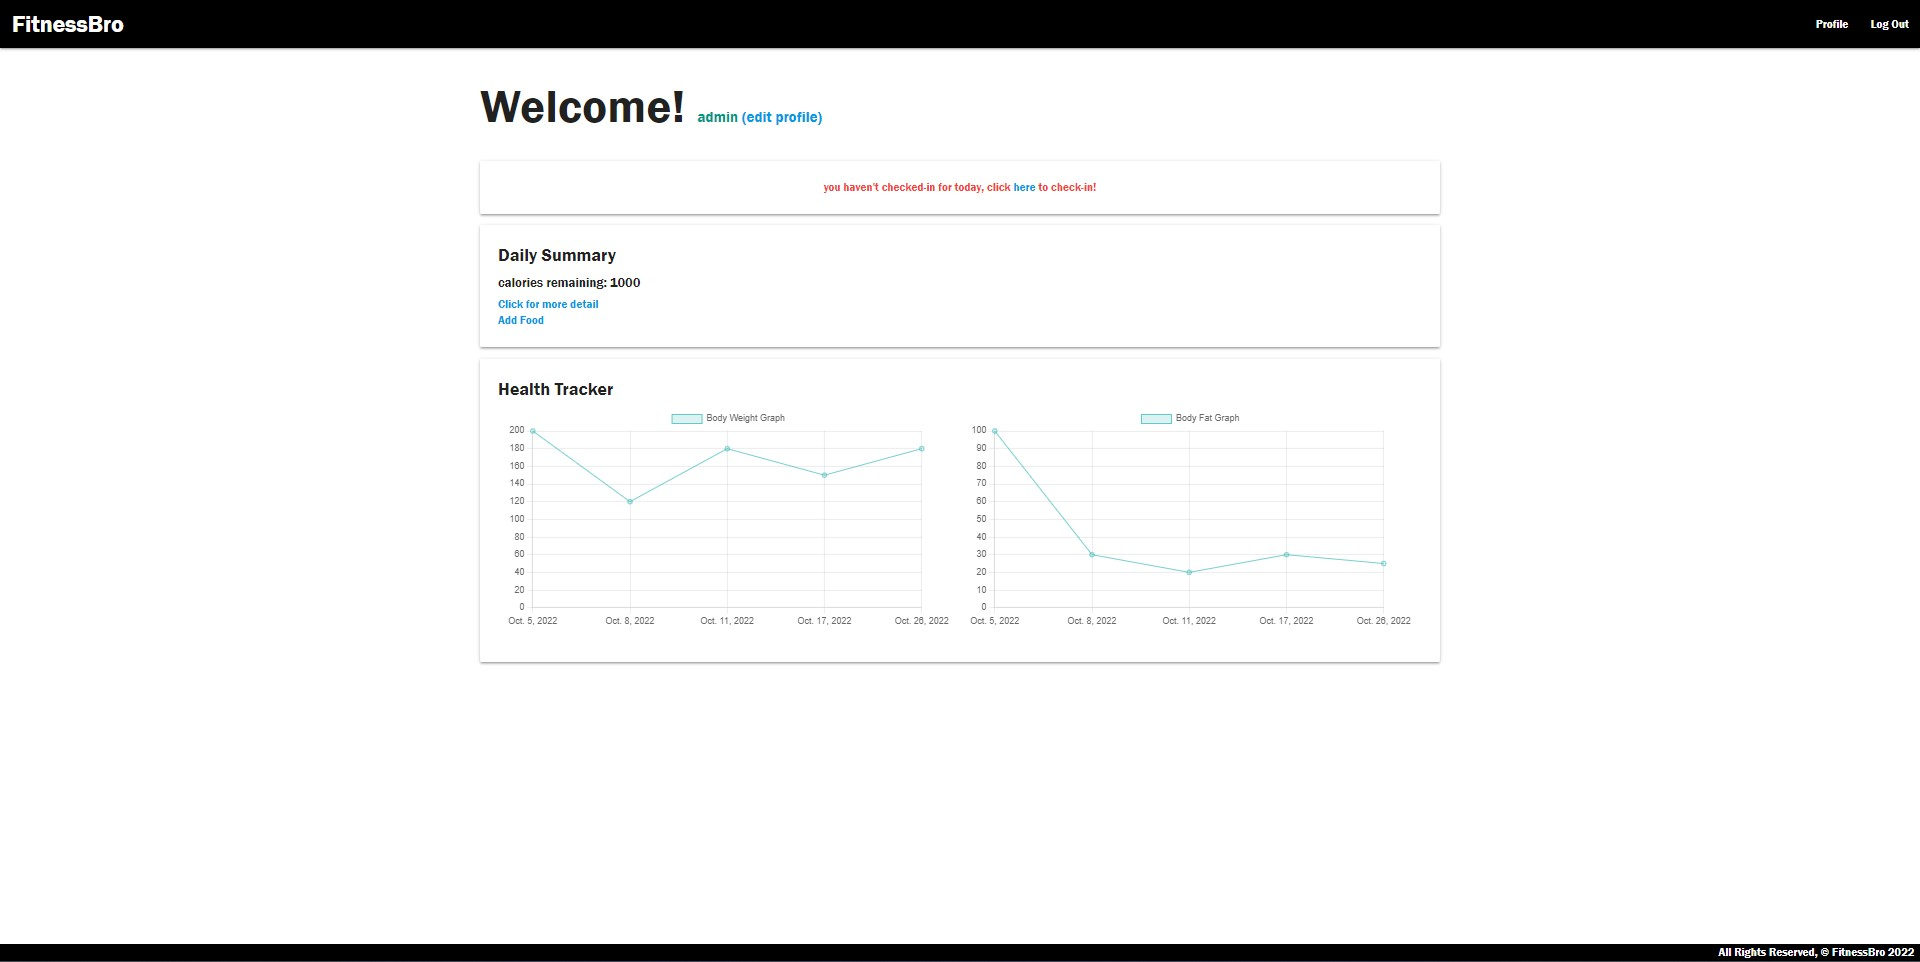
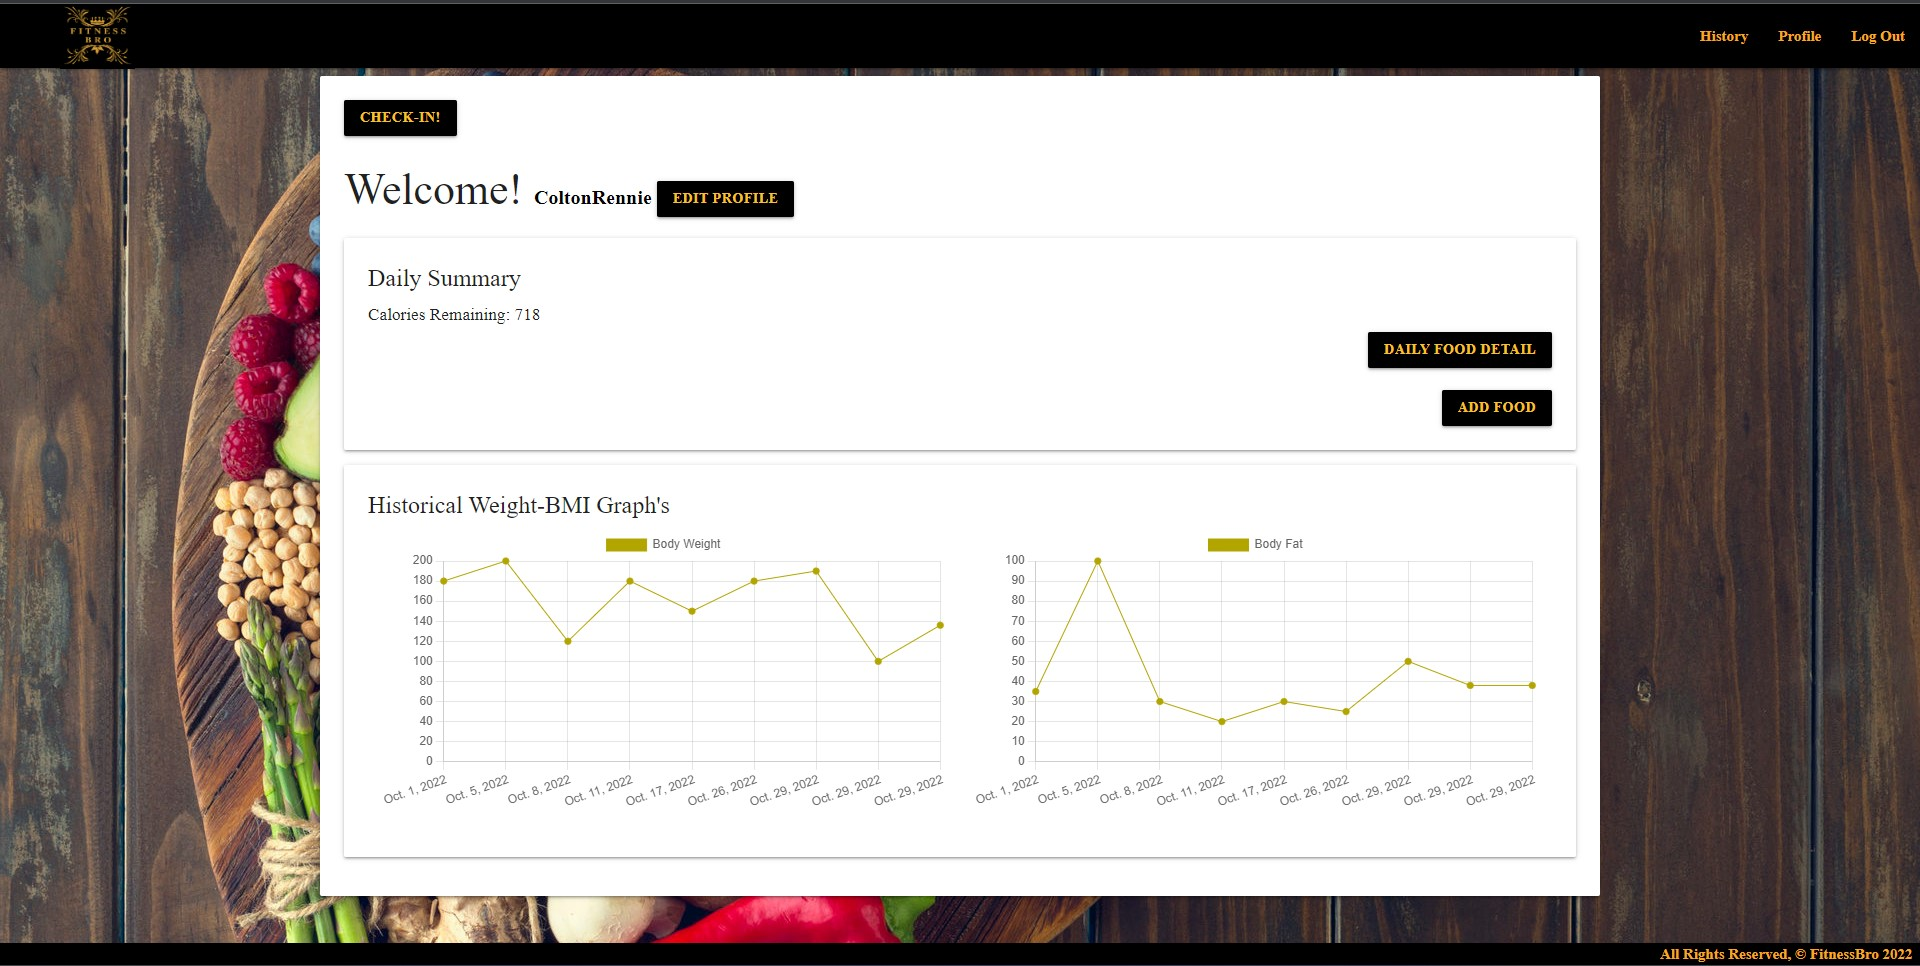
updated images and add kg and cm

diff --git a/main_app/templates/profile/detail.html b/main_app/templates/profile/detail.html
@@ -32,12 +32,19 @@
       <span class="card-title">Daily Summary</span>
       <h6>Calories Remaining: {{profile.calculate_calories_remaining}}</h6>
       <div class="summary-button">
-        <a class="btn black yellow-text text-darken-2" href="{% url 'food_index' %}">
+        <a
+          class="btn black yellow-text text-darken-2"
+          href="{% url 'food_index' %}"
+        >
           Daily FOOD Detail
         </a>
-      </div><br>
+      </div>
+      <br />
       <div class="summary-button">
-        <a class="btn black yellow-text text-darken-2" href="{% url 'food_create' %}">
+        <a
+          class="btn black yellow-text text-darken-2"
+          href="{% url 'food_create' %}"
+        >
           ADD FOOD
         </a>
       </div>
@@ -66,7 +73,7 @@
       data: {
         labels : [{% for item in data %}"{{ item.date }}",{% endfor %}],
           datasets: [{
-            label: "Body Weight",
+            label: "Body Weight(kg)",
             data : [{% for item in data %}{{ item.weight }},{% endfor %}],
             backgroundColor: '#b3a500',
             borderColor: '#b3a500',
@@ -87,7 +94,7 @@
       data: {
         labels : [{% for item in data %}"{{ item.date }}",{% endfor %}],
           datasets: [{
-            label: "Body Fat",
+            label: "Body Fat(%)",
             data : [{% for item in data %}{{ item.bodyfat }},{% endfor %}],
             backgroundColor: '#b3a500',
             borderColor: '#b3a500',

diff --git a/main_app/templates/registration/signup.html b/main_app/templates/registration/signup.html
@@ -8,7 +8,11 @@
 
   <form method="post" action="{% url 'signup' %}">
     {% csrf_token %} {{ form.as_p }}
-    <input type="submit" class="btn" value="signup" />
+    <input
+      type="submit"
+      class="btn black yellow-text text-darken-3"
+      value="signup"
+    />
   </form>
 </div>
 {% endblock %}

diff --git a/main_app/forms.py b/main_app/forms.py
@@ -5,7 +5,7 @@ from .models import Profile
 
 class UserForm(UserCreationForm):
     age = forms.IntegerField(required=True)
-    height = forms.IntegerField(required=True)
+    height = forms.IntegerField(label_suffix='(cm):', required=True)
     daily_calories_goal = forms.IntegerField(required=True)
     class Meta:
         model = User
@@ -18,3 +18,5 @@ class UserForm(UserCreationForm):
         user = super(UserForm, self).save()
         Profile.objects.create(age=age, user=user, height=height, daily_calories_goal=daily_calories_goal)
         return user
+
+
